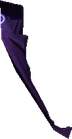
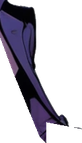
Combat body: new side-view art with the head turned toward the enemies; re-split parts, new palm/chest anchors, regenerated rig
Claude-Session: https://claude.ai/code/session_01XrBwXBqX3owjaJbW5W7iUD

Changed region(s): [[0.0, 0.0, 1.0, 1.0]]

diff --git a/MagicSwordsman/tools/split_body.py b/MagicSwordsman/tools/split_body.py
@@ -1,6 +1,6 @@
 """Splits the full-body Ensifer art into animation parts with Godot pivots.
 Input: the background-removed full-body PNG of the game-style Ensifer (side-on, facing right; 776x1216 — source:
-AI Horde body_137 of round 2, mirrored, see docs/card-art-credits.md). Output: MagicSwordsman/images/character/parts/*.png
+AI Horde side-view i2 (img2img of the previous body, head turned toward the enemy), see docs/card-art-credits.md). Output: MagicSwordsman/images/character/parts/*.png
 and parts.json (pivot + offset per part, in output pixels). The base 'body' has the moving parts inpainted out so no
 hole shows when an arm or coat flap swings. The painted magic swirls of the source are removed (the rig draws its
 own palm circles). Usage: python3 tools/split_body.py body_cut.png
@@ -13,17 +13,17 @@ os.makedirs(OUT,exist_ok=True)
 S=800/1216  # output scale (parts are 800 px tall; the scene shows them at 0.5)
 # R = the arm toward the enemy (screen right), L = the back arm (screen left)
 PARTS={  # name: (polygon in source px, pivot = joint the part rotates around)
- 'head':([(298,80),(450,80),(452,200),(420,248),(372,262),(330,248),(298,212)],(372,258)),
- 'upper_r':([(428,268),(486,268),(540,360),(596,452),(560,500),(510,470),(452,380),(430,330)],(452,292)),
- 'fore_r':([(548,440),(630,470),(700,505),(752,540),(752,690),(640,690),(600,600),(560,530),(530,490)],(566,470)),
- 'upper_l':([(232,272),(312,272),(300,360),(258,470),(226,540),(170,530),(196,440)],(276,296)),
- 'fore_l':([(160,500),(232,520),(210,600),(170,690),(150,780),(30,780),(30,620),(100,560)],(206,516)),
- 'coat_l':([(176,610),(292,560),(318,700),(296,990),(160,995),(140,820)],(292,580)),
- 'coat_r':([(424,560),(540,610),(668,860),(650,890),(520,860),(432,770)],(430,575)),
+ 'head':([(268,22),(432,22),(432,118),(402,172),(372,192),(330,198),(296,150),(268,100)],(352,192)),
+ 'upper_r':([(398,212),(452,212),(502,326),(532,418),(502,462),(458,420),(418,322),(398,268)],(428,240)),
+ 'fore_r':([(468,398),(560,416),(642,436),(732,466),(732,562),(640,562),(588,522),(518,482),(468,460)],(494,430)),
+ 'upper_l':([(204,214),(262,228),(252,330),(202,440),(150,482),(118,450),(168,330)],(230,250)),
+ 'fore_l':([(108,430),(192,452),(170,562),(122,642),(104,702),(14,702),(6,612),(58,520)],(154,462)),
+ 'coat_l':([(130,600),(238,520),(290,700),(262,900),(180,940),(128,800)],(248,540)),
+ 'coat_r':([(440,560),(560,560),(662,700),(652,842),(560,802),(470,762)],(452,562)),
 }
 ARMS=('upper_l','fore_l','upper_r','fore_r')
 DISCARD=()
-HANDS=[(30,600,170,790),(590,500,752,700)]  # glowing hands: keep their magenta glow
+HANDS=[(4,596,134,712),(586,436,734,566)]  # glowing hands: keep their magenta glow
 im=Image.open(SRC).convert('RGBA'); W,H=im.size
 a=np.array(im); yy,xx=np.mgrid[0:H,0:W]
 # painted magic swirls / wisps: magenta strokes outside the hands, and faint semi-transparent smoke
@@ -31,11 +31,18 @@ mag=(a[...,0].astype(int)>140)&(a[...,2].astype(int)>140)&(a[...,1].astype(int)<
 keep=np.zeros((H,W),bool)
 for x0,y0,x1,y1 in HANDS: keep[y0:y1,x0:x1]=True
 # the face (pink make-up) and the chest gem are magenta too: keep them; every other magenta stroke is painted magic
-for x0,y0,x1,y1 in ((285,70,465,275),(320,260,460,380)): keep[y0:y1,x0:x1]=True
+for x0,y0,x1,y1 in ((280,40,440,210),(318,196,424,352)): keep[y0:y1,x0:x1]=True
 a[mag&~keep,3]=0
 a[a[...,3]<90,3]=0
+# the painted grey smoke around the hands and coat hem: light, unsaturated pixels (the figure itself is dark)
+rgb=a[...,:3].astype(int); light=(rgb.min(-1)>120)&((rgb.max(-1)-rgb.min(-1))<40)
+a[light,3]=0
+a[(yy>1120)&(xx>405),3]=0  # cast shadow beside the front boot
+grey=(rgb.min(-1)>55)&((rgb.max(-1)-rgb.min(-1))<32)
+for x0,y0,x1,y1 in ((560,420,776,680),(0,540,160,740),(420,740,700,880)):  # darker smoke near the hands and hem
+    z=np.zeros((H,W),bool); z[y0:y1,x0:x1]=True; a[z&grey,3]=0
 # ground shadow under the boots
-a[(yy>1170)&((xx<330)|(xx>440)),3]=0
+a[(yy>1100)&((xx<280)|(xx>440)),3]=0
 n,lab,st,_=cv2.connectedComponentsWithStats((a[...,3]>0).astype(np.uint8),8)
 a[lab!=1+np.argmax(st[1:,4])]=0
 im=Image.fromarray(a)
@@ -72,7 +79,7 @@ alpha=np.array(im.getchannel('A')).copy()
 # pixels of an arm that hang outside the torso belong to the arm only (no copy left in the base)
 arms=np.zeros((H,W),bool)
 for n in ARMS: arms|=np.array(mask(PARTS[n][0]))>0
-outside=arms&((xx<230)|(xx>470))
+outside=arms&((xx<196)|(xx>468))
 alpha[outside]=0
 base.putalpha(Image.fromarray(alpha))
 bb=(0,0,W,H)

diff --git a/MagicSwordsman/tools/gen_combat_scene.py b/MagicSwordsman/tools/gen_combat_scene.py
@@ -16,7 +16,7 @@ HERE=os.path.dirname(__file__)
 OUT=os.path.join(HERE,'..','MagicSwordsman','scenes','magic_swordsman_combat.tscn')
 PARTS=json.load(open(os.path.join(HERE,'..','MagicSwordsman','images','character','parts','parts.json')))
 CW,CH=PARTS['_size']; CX,CY=CW/2,CH/2
-CHEST=(380*800/1216-CX,318*800/1216-CY)  # the glowing gem on his chest (split_body.py source px)
+CHEST=(365*800/1216-CX,262*800/1216-CY)  # the glowing gem on his chest (split_body.py source px)
 REST_Y=-200
 JOINTS={'head':'Visuals/Rig/Head','ul':'Visuals/Rig/UpperL','fl':'Visuals/Rig/UpperL/ForeL',
         'ur':'Visuals/Rig/UpperR','fr':'Visuals/Rig/UpperR/ForeR','cl':'Visuals/Rig/CoatL','cr':'Visuals/Rig/CoatR'}
@@ -260,7 +260,7 @@ P='res://MagicSwordsman/images/'
 ORDER=[('Body','body',None),('Head','head',None),('CoatL','coat_l',None),('CoatR','coat_r',None),
        ('UpperL','upper_l',None),('ForeL','fore_l','UpperL'),('UpperR','upper_r',None),('ForeR','fore_r','UpperR')]
 PARENT_PART={'ForeL':'upper_l','ForeR':'upper_r'}
-PALM={'L':('fore_l',(95*800/1216,690*800/1216)),'R':('fore_r',(672*800/1216,575*800/1216))}  # palms, output canvas px
+PALM={'L':('fore_l',(62*800/1216,662*800/1216)),'R':('fore_r',(684*800/1216,492*800/1216))}  # palms, output canvas px
 # layers of one hand circle: (name, texture, tilt rotation, tilt y-squash, spin turns per 6 s)
 LAYERS=[('Ring','h_ring',0.0,1.0,1),('Glyph','h_glyph',0.0,1.0,-1),('Core','h_core',0.0,1.0,0)]  # one slow turn per 12 s
 res='\n'.join(f'[ext_resource type="Texture2D" path="{P}character/parts/{f}.png" id="p_{f}"]' for _,f,_ in ORDER)

diff --git a/docs/card-art-credits.md b/docs/card-art-credits.md
@@ -389,3 +389,7 @@
 ## v3 redraw (2026-10-09)
 
 All 140 existing card portraits were regenerated with more varied subjects (swords, monsters, objects, places; Ensifer only on cards that are about him), each sword keeping its own palette. Same pipeline as before: AI Horde, model AlbedoBase XL (SDXL), img2img from hand-composed layouts. The v2 set is archived in `art_versions/v2_card_portraits/`.
+
+## Side-view combat body (2026-10-09)
+
+The combat rig parts (`images/character/parts/*`) and `images/character/magic_swordsman.png` now come from a new side-view body whose head is turned toward the enemies (user feedback: the previous body looked at the viewer). AI Horde, AlbedoBase XL (SDXL), img2img (denoise 0.62) from the previous body; background removed with rembg (isnet-general-use); painted smoke removed and parts split by `tools/split_body.py`.
